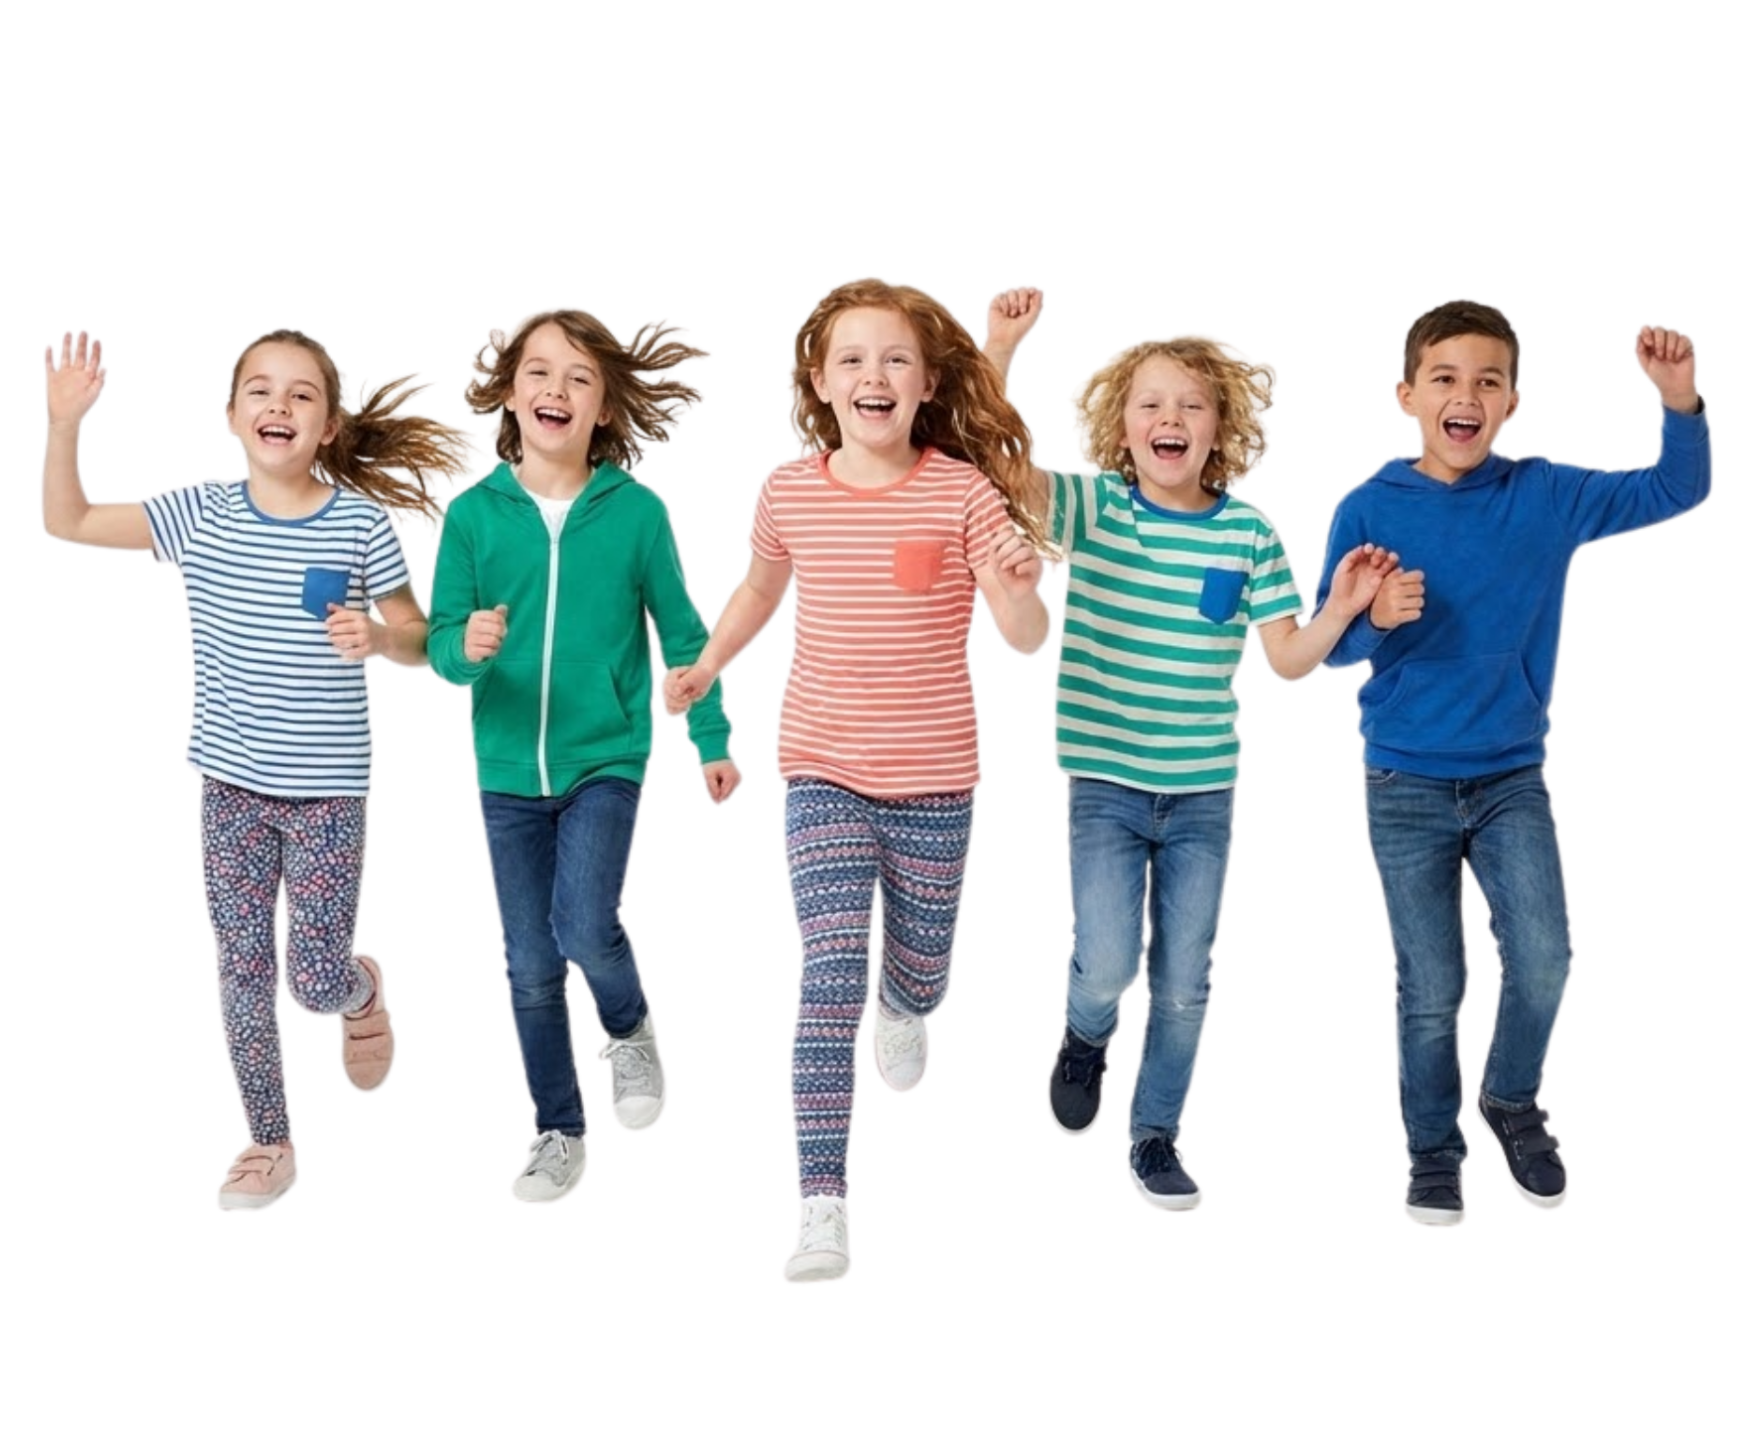
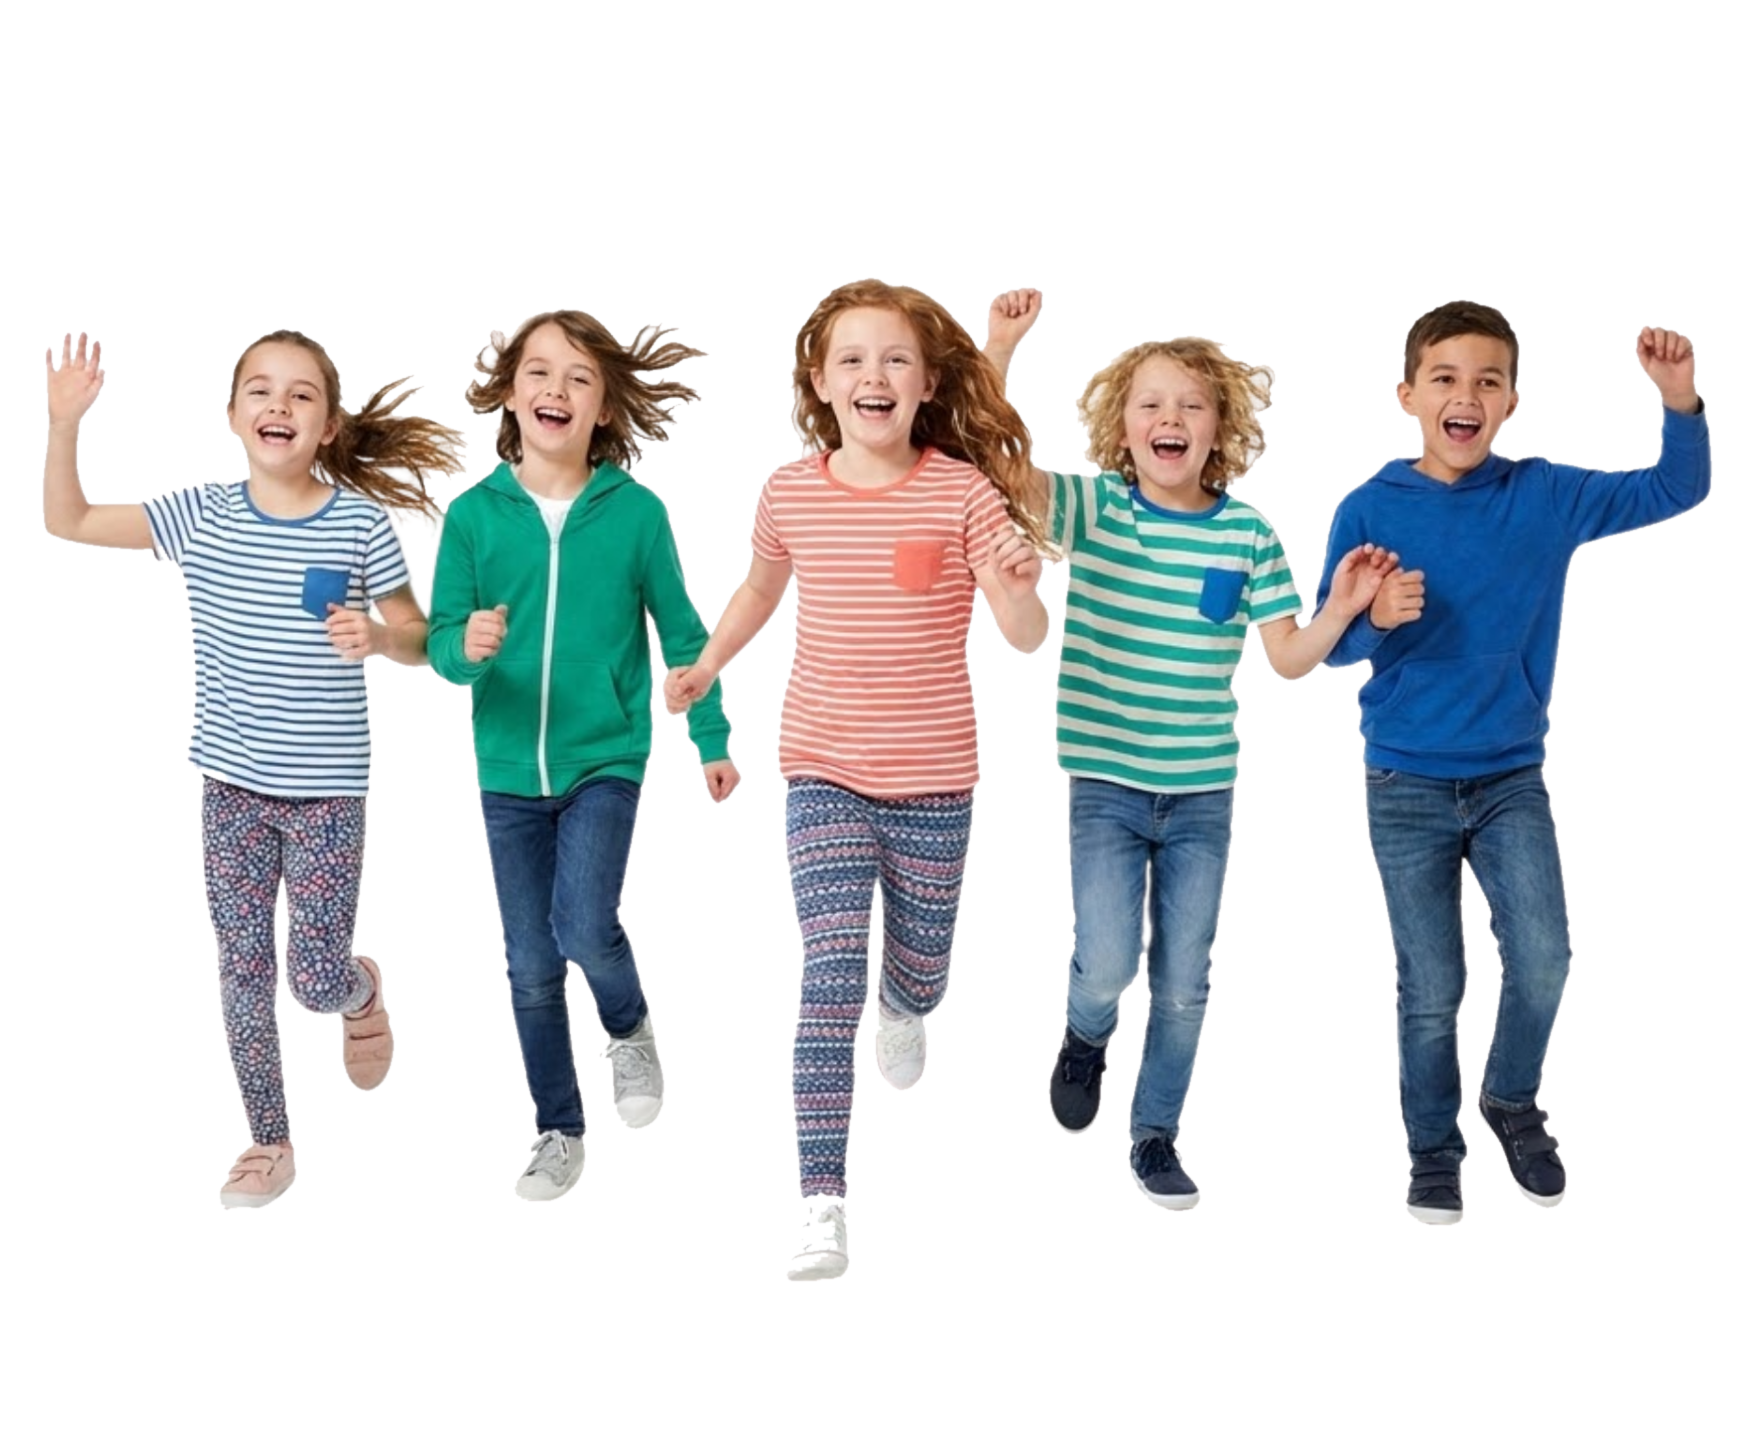
Cut out students-running.png and link About Us from the home nav
Flood-fill the border-connected white to real transparency (68.8% alpha),
keeping interior white so shoes and stripes survive. Drops the multiply
workaround for a silhouette drop-shadow, and lifts the glass card clear
of the children's faces.

diff --git a/about.html b/about.html
@@ -366,7 +366,7 @@ a { color: inherit; text-decoration: none; }
 /* ---- Frosted typography card ---- */
 .oval-glass-card {
   position: absolute; z-index: 4;
-  top: 44%; left: 50%;                /* sits above the runners, not behind */
+  top: 36%; left: 50%;                /* lifted clear of the runners' faces */
   translate: -50% -50%;
   max-width: 650px;
   width: min(650px, 78%);
@@ -404,12 +404,11 @@ a { color: inherit; text-decoration: none; }
 
 /* ---- Foreground cut-out ---- */
 .running-kids-overlay {
-  /* NOTE: students-running.png is NOT actually cut out — 0% of its pixels are
-     transparent and 68% are opaque white, so it paints as a white rectangle.
-     `multiply` makes white vanish (white x backdrop = backdrop) while the
-     children still composite, which rescues the layered effect until the file
-     is re-exported with a real alpha channel. Delete this one line then. */
-  mix-blend-mode: multiply;
+  /* The PNG now carries a real alpha channel (68.8% transparent), so the
+     children composite at full opacity with no blend-mode trickery. The
+     drop-shadow follows the cut-out silhouette rather than a bounding box,
+     which is what lifts them off the building. */
+  filter: drop-shadow(0px 15px 20px rgba(20, 20, 20, 0.15));
 
   position: absolute;
   left: 50%;
@@ -493,6 +492,13 @@ a { color: inherit; text-decoration: none; }
 /* ==========================================================================
    RESPONSIVE
    ========================================================================== */
+/* Between ~770 and 1100px the oval gets shorter but the runners keep their
+   550px cap, so they crowd the card. Scale them to the oval instead. */
+@media (max-width: 1100px) and (min-width: 769px) {
+  .running-kids-overlay { max-width: 46%; }
+  .oval-glass-card { top: 32%; }
+}
+
 @media (max-width: 860px) {
   .burger { display: flex; }
   .nav {
@@ -510,7 +516,7 @@ a { color: inherit; text-decoration: none; }
 
   /* A stadium radius squeezes text at narrow widths — ease it off */
   .allbirds-oval { aspect-ratio: 4 / 5; border-radius: 44px; }
-  .oval-glass-card { width: 84%; top: 42%; }
+  .oval-glass-card { width: 84%; top: 34%; }
   /* Shrink the runners so they read against a much narrower oval */
   .running-kids-overlay { max-width: 78%; bottom: -18px; }
   .oval-stage { padding-bottom: 18px; }

diff --git a/index.html b/index.html
@@ -25,6 +25,7 @@
       <span data-en="DEO Kairo" data-de="DEO Kairo">DEO Kairo</span>
     </a>
     <nav class="main-nav" id="main-nav">
+      <a href="about.html" data-en="About Us" data-de="Über uns">About Us</a>
       <a href="#pillars" data-en="Our Values" data-de="Unsere Werte">Our Values</a>
       <a href="#path" data-en="School Path" data-de="Schulaufbau">School Path</a>
       <a href="#community" data-en="Community" data-de="Gemeinschaft">Community</a>
